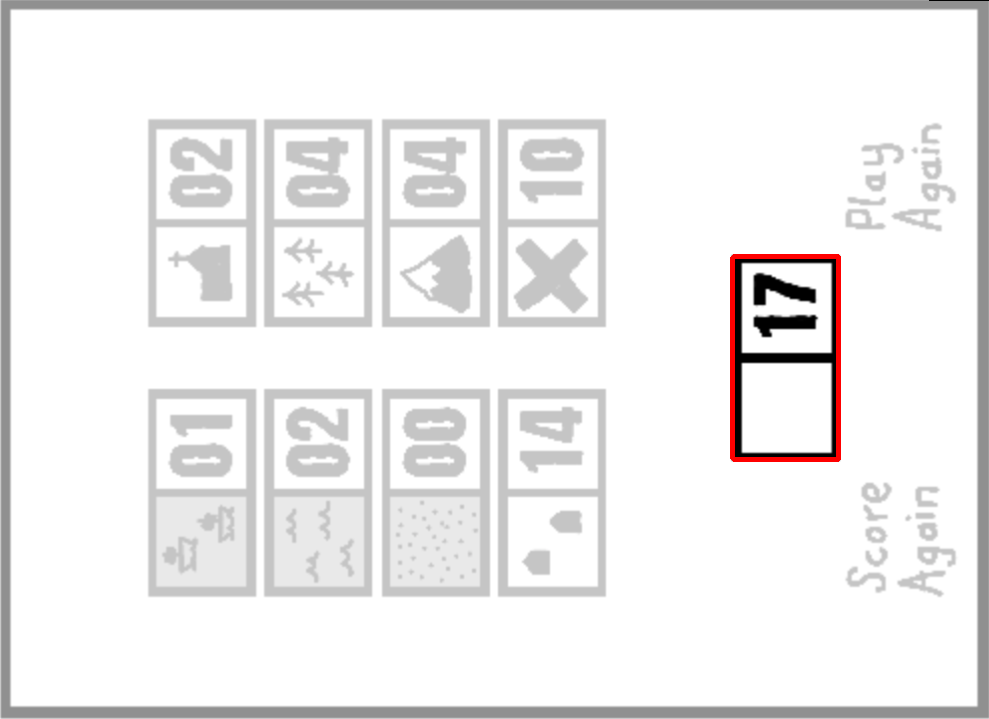
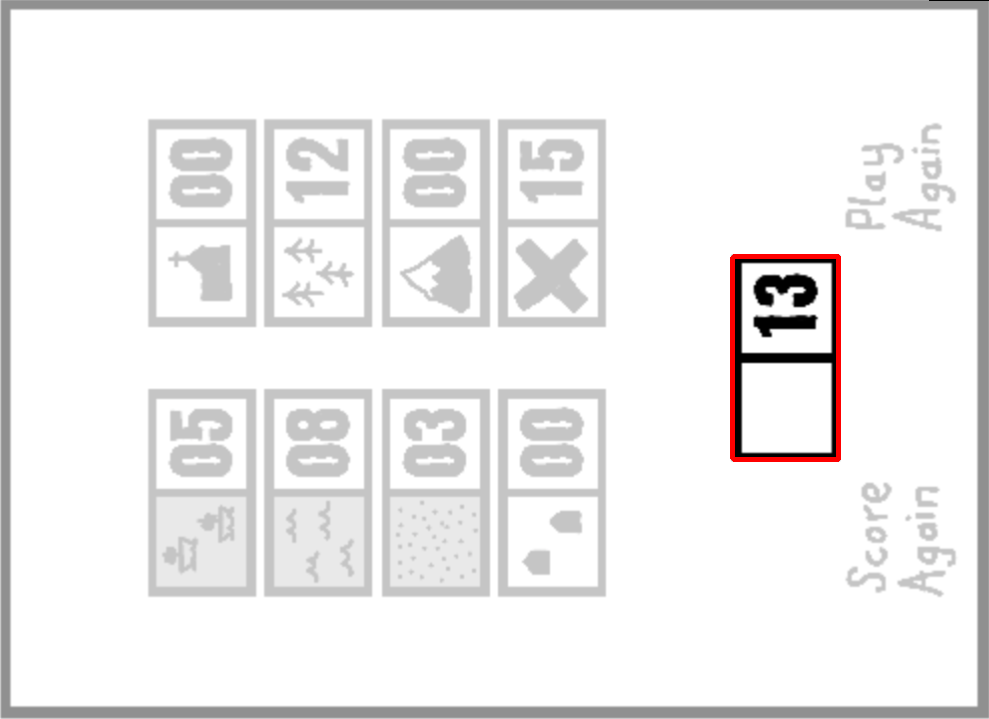
Definitely somthing is going on

diff --git a/ocr_sheet.py b/ocr_sheet.py
@@ -190,8 +190,6 @@ def get_biggest_contour2(img, img_adaptive_binary):
 
     img_raw_contour = cv_utils.get_rotated_image_from_contour(img, biggest_contour, rotation=270)
 
-    cv_utils.show_window('img_raw_contour_222', img_raw_contour)
-
     img_raw_contour_rotated = resize_to_right_ratio(img_raw_contour)
     img_raw_black_and_white = get_image_as_black_and_white(img_raw_contour_rotated)
 
@@ -207,8 +205,6 @@ def generate_ti_sheet(img, num_rows_in_grid=19, max_num_cols=20):
     # Find the biggest contour and rotate it
     img_raw_contour_rotated, img_raw_black_and_white = get_biggest_contour(img, image_as_black_and_white)
 
-    cv_utils.show_window("raw_contour_rotated", img_raw_contour_rotated)
-    cv_utils.show_window("img_raw_b_w", img_raw_black_and_white)
 
     image_as_black_and_white = get_image_as_black_and_white(img_raw_contour_rotated, marker=50)
     cv_utils.show_window('img_black_and_white_2', image_as_black_and_white)
@@ -224,11 +220,11 @@ def generate_ti_sheet(img, num_rows_in_grid=19, max_num_cols=20):
     img_binary_grid, img_binary_only_numbers = get_yatzy_grid(img_raw_black_and_white)
 
     # Get every yatzy grid cell as a sorted bounding rect in order to later locate numbers to correct cell
-    yatzy_cells_bounding_rects, grid_bounding_rect = get_yatzy_cells_bounding_rects(img_binary_grid, num_rows_in_grid, max_num_cols)
+    yatzy_cells_bounding_rects, grid_bounding_rect = get_yatzy_cells_bounding_rects(img_binary_grid, 1, 2)
 
     # Get the area of the yatzy grid from different versions of raw img
     img_binary_only_numbers = cv_utils.get_bounding_rect_content(img_binary_only_numbers, grid_bounding_rect)
-    img_binary_yatzy_sheet = cv_utils.get_bounding_rect_content(img_binary_sheet_rotated, grid_bounding_rect)
+    img_binary_yatzy_sheet = cv_utils.get_bounding_rect_content(img_raw_black_and_white, grid_bounding_rect)
     img_yatzy_sheet = cv_utils.get_bounding_rect_content(img_raw_contour_rotated, grid_bounding_rect)
 
     return img_yatzy_sheet, img_binary_yatzy_sheet, img_binary_only_numbers, yatzy_cells_bounding_rects
@@ -358,20 +354,20 @@ def get_yatzy_cells_bounding_rects(img_binary_grid, num_rows_in_grid=19, max_num
 
     sheet_width = img_binary_grid.shape[1]
 
-    cell_min_width = (sheet_width/max_num_cols)
+    cell_min_width = (sheet_width/max_num_cols) -10
 
     # Clean grid from small contours
     yatzy_cells_bounding_rects = [cv2.boundingRect(cnt) for cnt in binary_grid_contours if cv_utils.wider_than(cnt, cell_min_width)]
 
     # Define resolution for cell area "bins"
-    cell_resolution = (sheet_width/50) ** 2
+    # cell_resolution = (sheet_width/50) ** 2
 
-    _, _, target_width, target_height = get_most_common_area(yatzy_cells_bounding_rects, cell_resolution)
+    # _, _, target_width, target_height = get_most_common_area(yatzy_cells_bounding_rects, cell_resolution)
 
-    if len(yatzy_cells_bounding_rects) < num_rows_in_grid:
-        print("ERROR: Not enough grid cells found.")
+    # if len(yatzy_cells_bounding_rects) < num_rows_in_grid:
+    #     print("ERROR: Not enough grid cells found.")
 
-    yatzy_cells_bounding_rects = list(filter(lambda x: __filter_by_dim(x, target_width, target_height), yatzy_cells_bounding_rects))
+    # yatzy_cells_bounding_rects = list(filter(lambda x: __filter_by_dim(x, target_width, target_height), yatzy_cells_bounding_rects))
 
     num_cells = len(yatzy_cells_bounding_rects)
     correct_num_cells_in_grid = (num_cells >= num_rows_in_grid and num_cells % num_rows_in_grid == 0)

diff --git a/ti_ocr_main.py b/ti_ocr_main.py
@@ -7,12 +7,12 @@ import cv2
 import ocr_sheet
 import cv_utils
 
-# print('Reading tensorflow model...')
-# print(tf.__version__)
-# predict_model = tf.keras.models.load_model('./models/model_tensorflow')
-# predict_model.summary()
+print('Reading tensorflow model...')
+print(tf.__version__)
+predict_model = tf.keras.models.load_model('./models/model_tensorflow')
+predict_model.summary()
 
-img_path = './assets/sample_sheets/tiwhole.png'
+img_path = './assets/sample_sheets/tiwhole3.png'
 num_rows = 19  # specify num rows for the yatzy sheet, original yatzy has 19
 
 print("Reading image from path", img_path)
@@ -25,7 +25,68 @@ img_yatzy_sheet, img_binary_yatzy_sheet, img_binary_only_numbers, yatzy_cells_bo
 # Debugging step
 img_yatzy_cells = img_yatzy_sheet.copy()
 cv_utils.draw_bounding_rects(img_yatzy_cells, yatzy_cells_bounding_rects)
-cv_utils.show_window('img_yatzy_cells', img_yatzy_cells)
+cv_utils.show_window('img_yatzy_cells', img_yatzy_cells, debug=True)
+cv_utils.show_window('img_binary_yatzy_sheet', img_binary_yatzy_sheet, debug=True)
+cv_utils.show_window('img_binary_only_numbers', img_binary_only_numbers, debug=True)
+print("nice")
+
+
+digit_contours = cv_utils.get_external_contours(img_binary_only_numbers)
+
+# Iterate over contours and predict numbers if the contours belong to a yatzy cell
+for i, cnt in enumerate(digit_contours):
+
+    digit_bounding_rect = cv2.boundingRect(cnt)
+    x, y, w, h = digit_bounding_rect
+
+    # Identify if and to which yatzy cell this bounding rect belongs to
+    yatzy_cell = ocr_sheet.validate_and_find_yatzy_cell(yatzy_cells_bounding_rects, digit_bounding_rect)
+    if yatzy_cell is None:
+        continue
+
+    # Black/white binary version of the roi
+    roi = img_binary_yatzy_sheet[y:y+h, x:x+w]
+
+    roi_fit_20x20 = 20 / max(roi.shape[0], roi.shape[1])
+
+    # Resize preserving binary format with INTER_NEAREST
+    roi = cv2.resize(roi, None, fx=roi_fit_20x20, fy=roi_fit_20x20, interpolation=cv2.INTER_NEAREST)
+
+    roi_background = np.zeros((28, 28), dtype=roi.dtype)
+    # Place the digit in the roi_background, 4 from top and 4 from left.
+    roi_background[4:4+roi.shape[0], 4:4+roi.shape[1]] = roi
+
+    # Save the original roi
+    cv2.imwrite("./assets/roi/original/roi_" +
+                str(i) + ".png", roi_background)
+
+    # Get the translation based on center of mass
+    delta_x, delta_y = cv_utils.get_com_shift(roi_background)
+
+    # Shift
+    roi_background = cv_utils.shift_by(roi_background, delta_x, delta_y)
+    cv2.imwrite("./assets/roi/shifted/roi_" +
+                str(i) + ".png", roi_background)
+
+    # Preprocess for prediction
+    roi_background = roi_background - 127.5
+    roi_background /= 127.5
+
+    # Log loss probabilities from our softmax classifier
+    prediction = predict_model(np.reshape(roi_background, (1, 28, 28, 1)))
+
+    predicted_digit = np.argmax(prediction)
+
+    # Mark them on the image
+    cv2.rectangle(img_yatzy_sheet, (x, y),
+                  (x+w, y+h), (100, 10, 100), 1)
+
+    cv2.putText(img_yatzy_sheet, str(predicted_digit), (x + int(w/2), y + int(h/2)), cv2.FONT_HERSHEY_SIMPLEX, .7, (0, 0, 255), 2, cv2.LINE_AA)
+
+
+cv_utils.show_window('img_yatzy_sheet', img_yatzy_sheet, debug=True)
+cv_utils.show_window('img_binary_yatzy_sheet', img_binary_yatzy_sheet)
+cv_utils.show_window('img_binary_only_numbers', img_binary_only_numbers)
 
 
 

diff --git a/cv_utils.py b/cv_utils.py
@@ -4,7 +4,7 @@ import os
 import numpy as np
 from scipy import ndimage
 
-DEBUG = True
+DEBUG = False
 
 
 def set_debug(debug):
